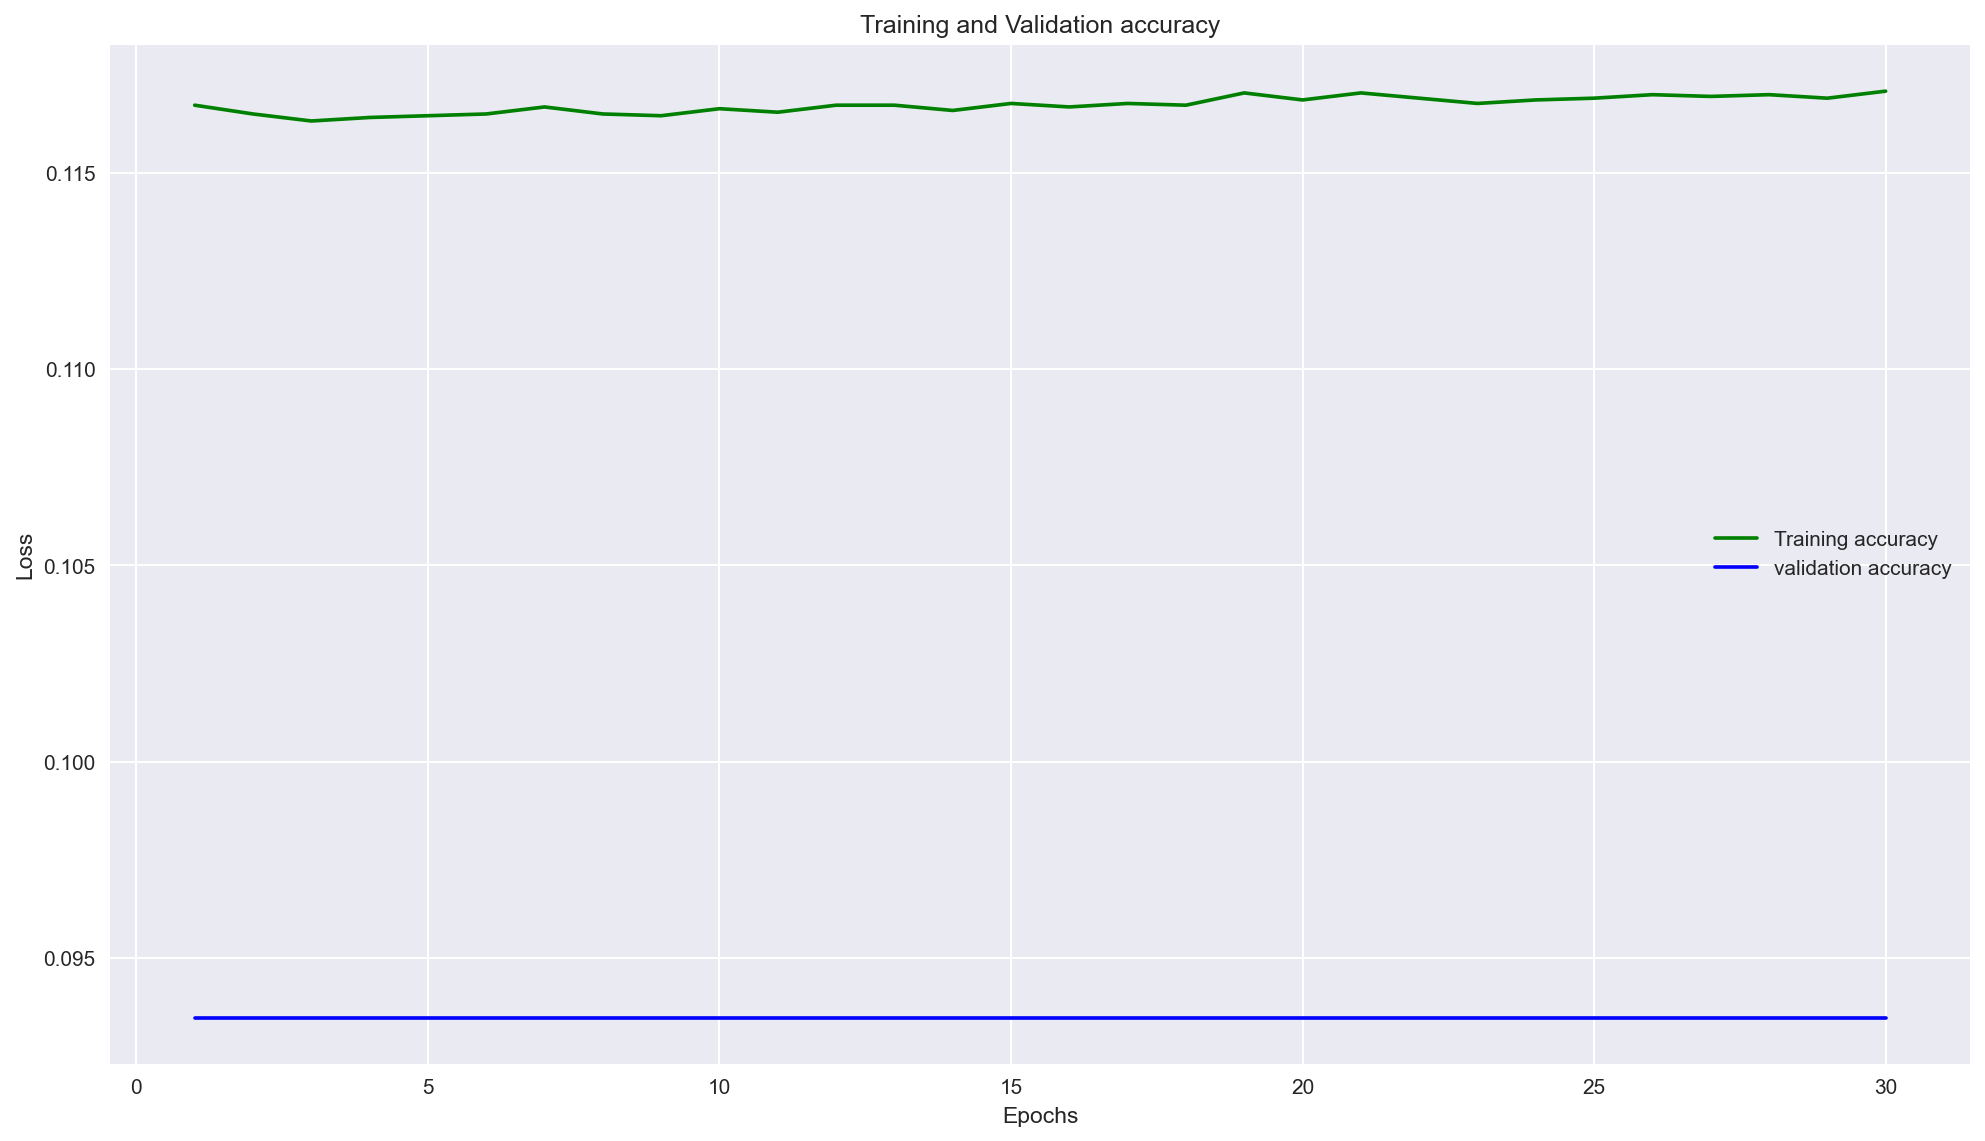
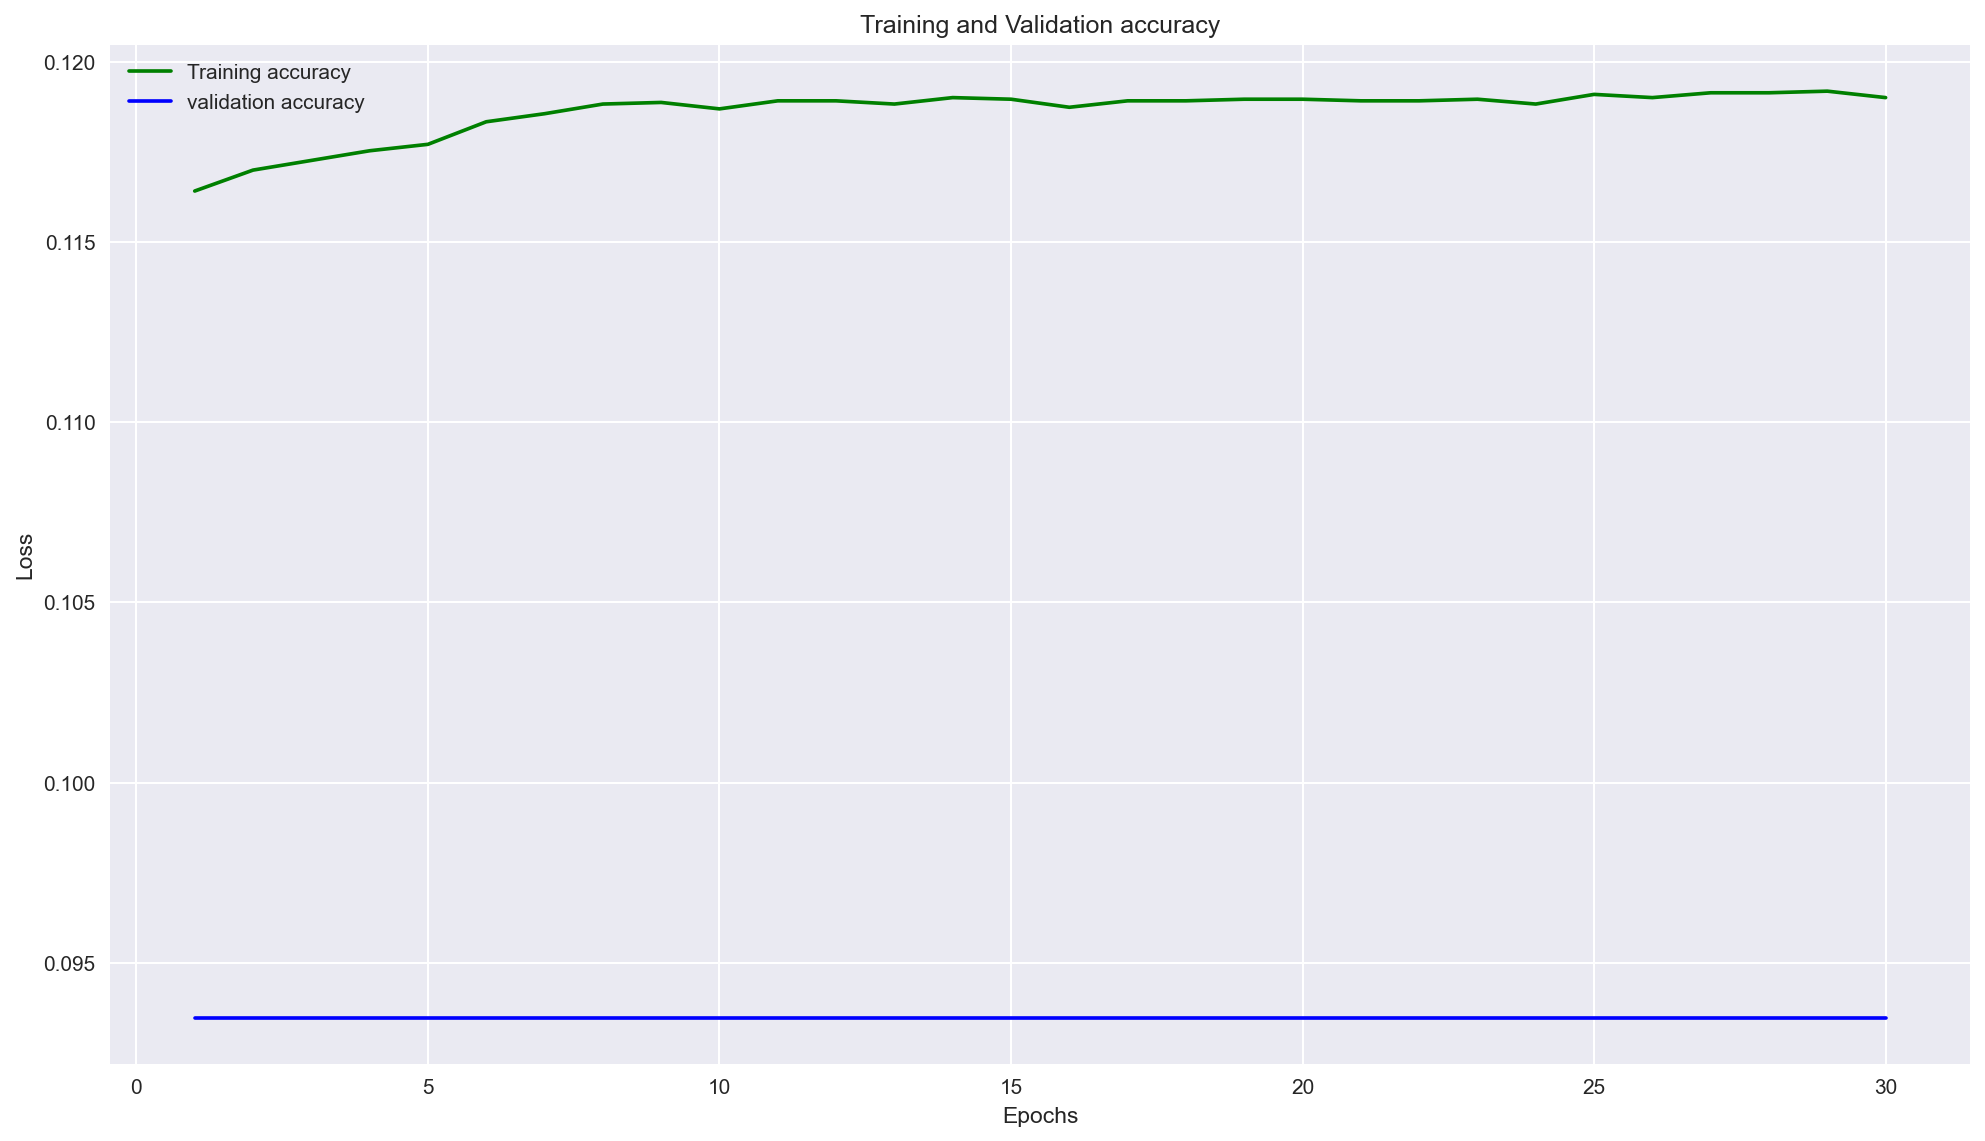
adjust lossfunc and lr

diff --git a/mlp_predict.py b/mlp_predict.py
@@ -55,7 +55,6 @@ all_data = pd.concat([x_wind_dir_x[window-1:-1],
                      x_pressure[window-1:-1],
                      data_calc_df[window-1:-1],
                      x_day[window-1:-1], 
-                     x_hour[window-1:-1],
                      x_temperature[window-1:-1],
                      y_power_measured[window-1:-1]],
                     axis=1)
@@ -111,19 +110,24 @@ y_test  = standardize.transform(y_test)
 #set up model deepNL with 1 layer à 64 neurons, relu/sigmoid activiation function
 model = keras.Sequential([
     keras.layers.Flatten(input_shape=(X_train.shape[1],)),
-    keras.layers.Dense(32, activation=tf.nn.relu),
-    keras.layers.Dense(32, activation=tf.nn.relu),
+    keras.layers.Dense(16, activation=tf.nn.relu),
+    #keras.layers.Dropout(0.2),
+    keras.layers.Dense(16, activation=tf.nn.relu),
+    keras.layers.Dense(8,activation=tf.nn.relu),
     keras.layers.Dense(1, activation=tf.nn.sigmoid),
 ])
 
+# optimizer
+opt = keras.optimizers.Adam(learning_rate=0.001)
+
 # compile model with best suitable loss function MSE and learning rate decay
-model.compile(optimizer='adam',
-              loss='mse',
+model.compile(optimizer=opt,
+              loss='mean_squared_logarithmic_error',
               metrics=['accuracy']
                             )
 #parameter to change
 epochs = 30
-batch_size = 1
+batch_size = 2
 
 history = model.fit(X_train, y_train,
                     epochs=epochs, batch_size=batch_size,
